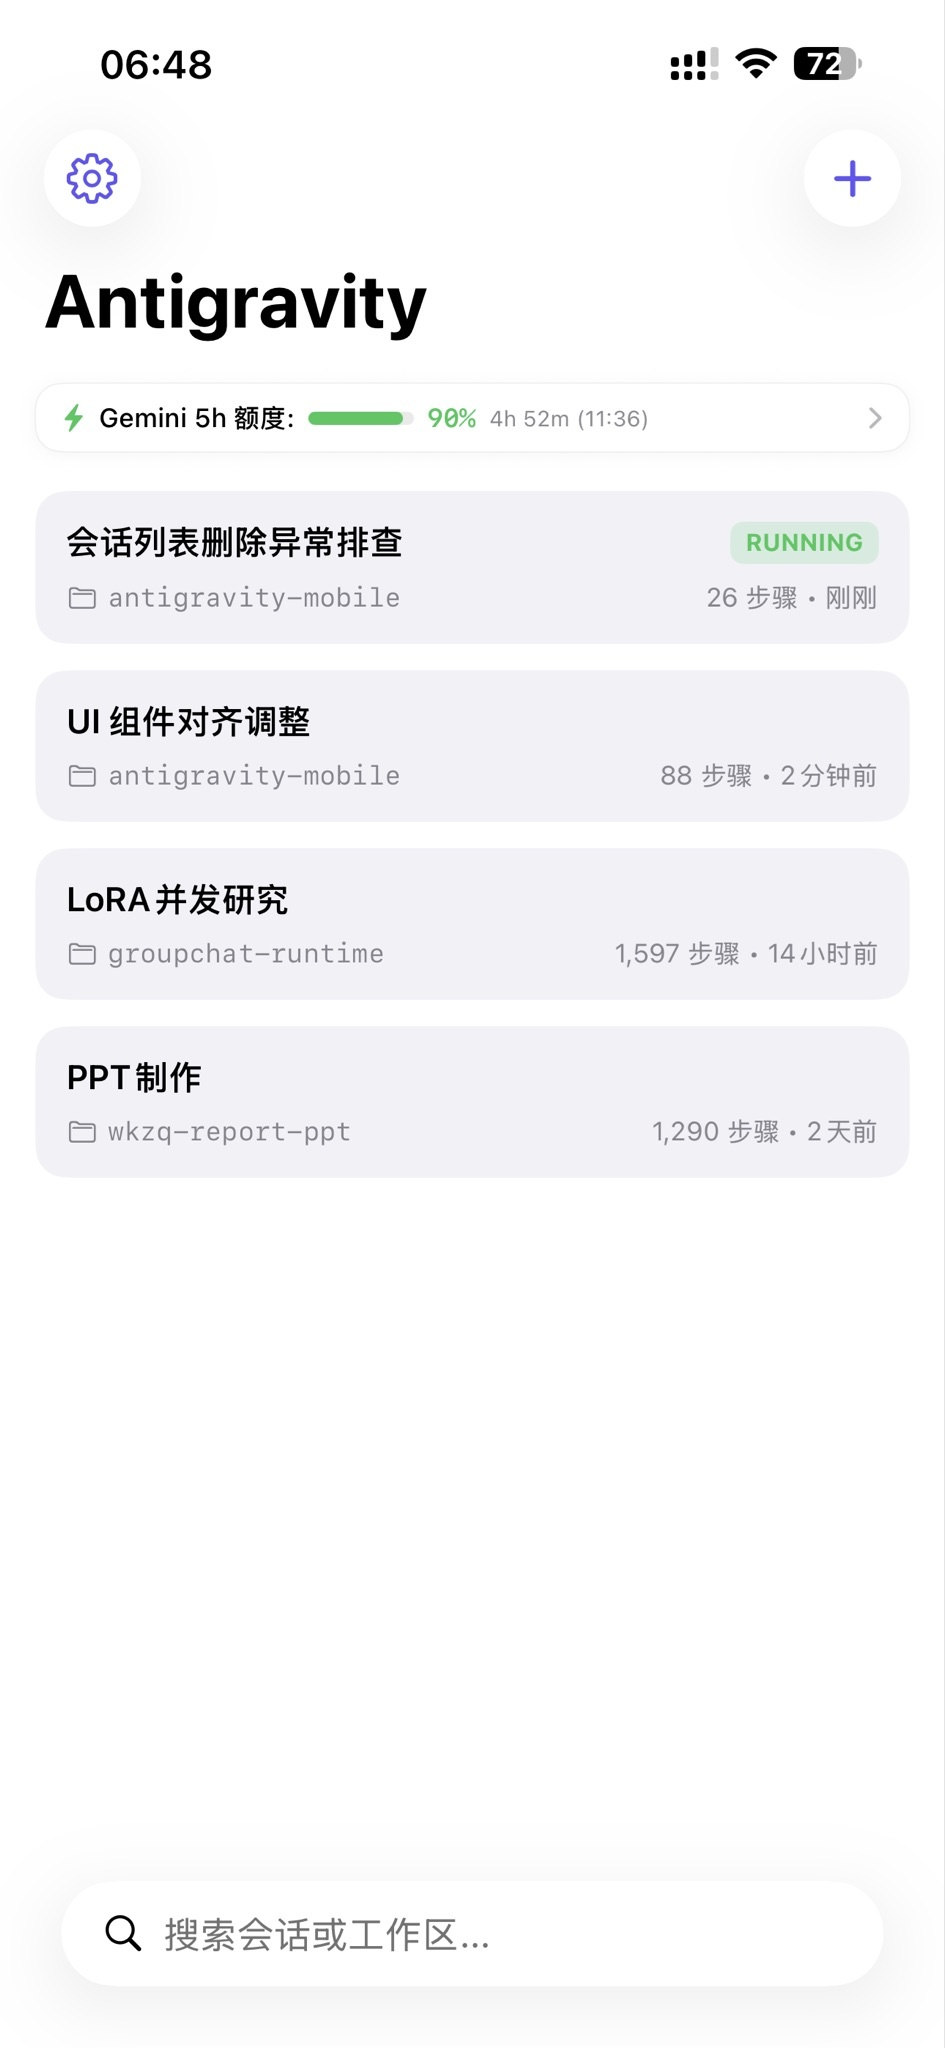
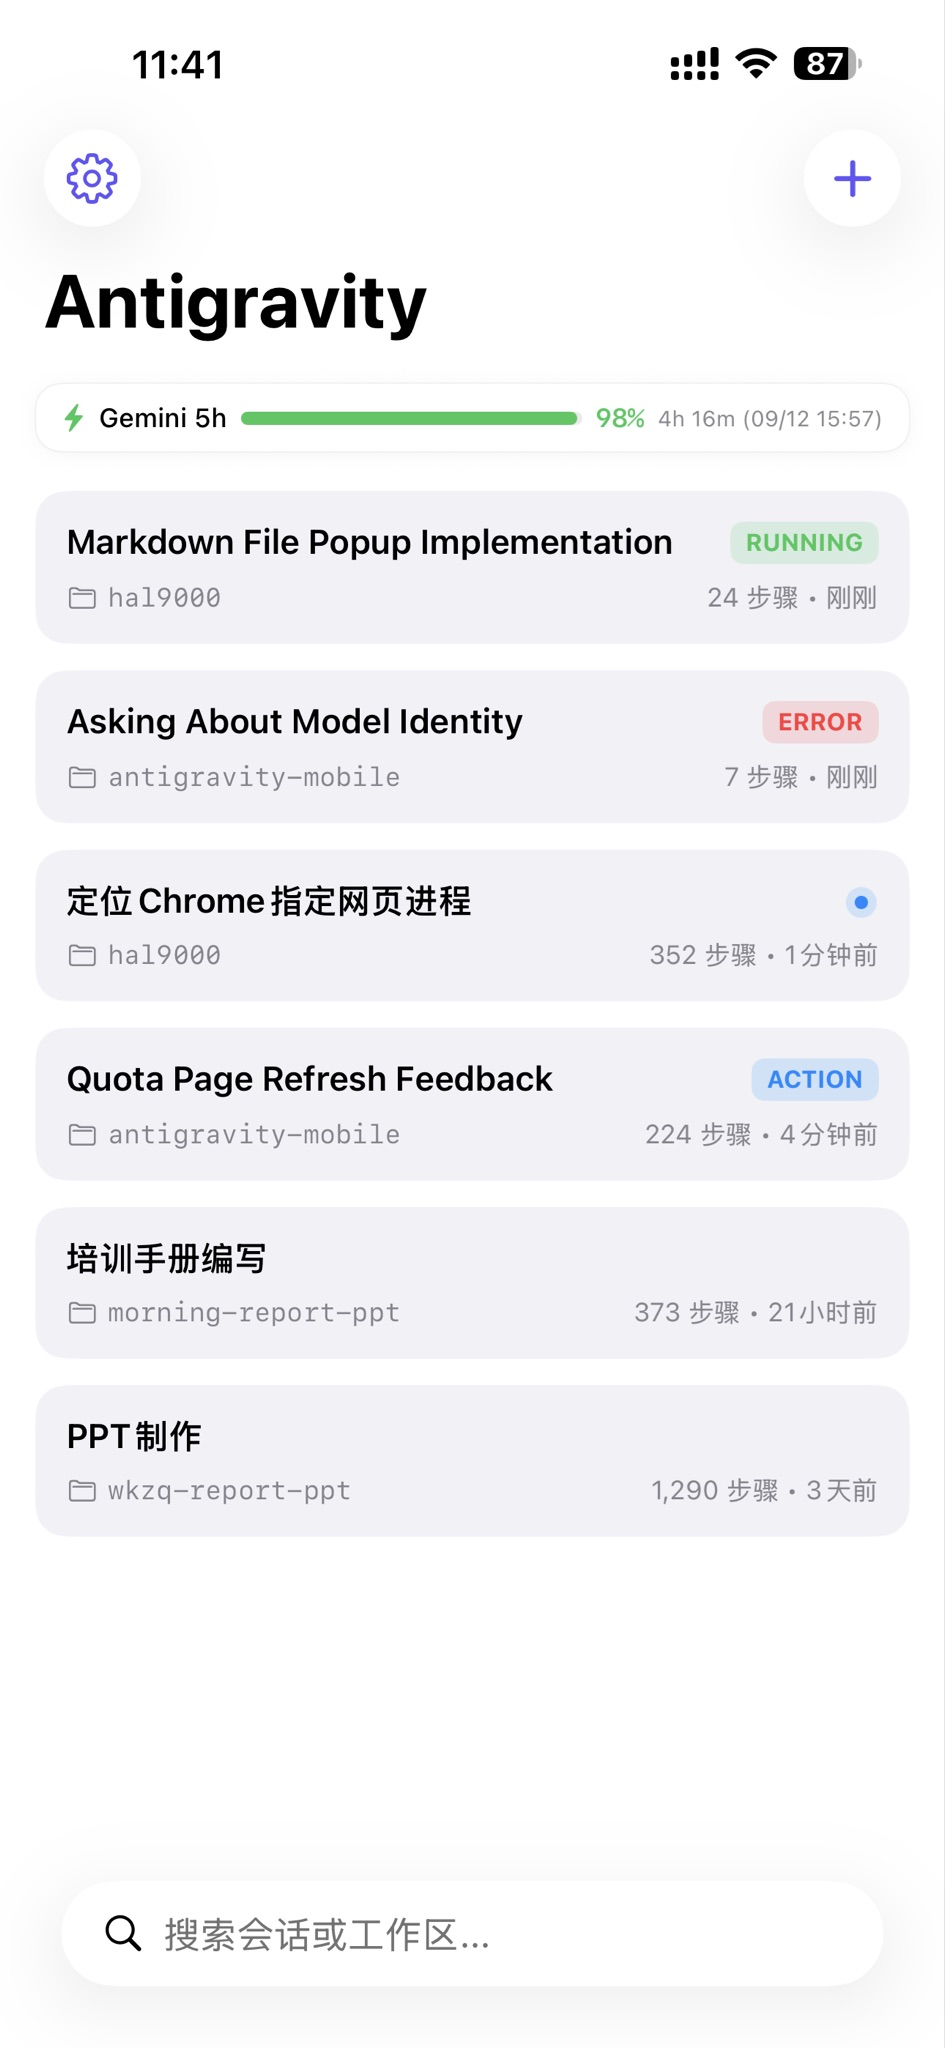
docs: update session list screenshot and document multi-state classification signals

diff --git a/README.md b/README.md
@@ -10,7 +10,7 @@
 [![License](https://img.shields.io/badge/License-MIT-green?style=flat-square)]()
 
 <p align="center">
-  <img src="images/session_list.jpg" alt="Antigravity Mobile 会话列表与配额面板" width="340" />
+  <img src="images/session_list.jpg" alt="Antigravity Mobile 会话列表与分类信号" width="340" />
   &nbsp;&nbsp;&nbsp;&nbsp;
   <img src="images/native_components.jpg" alt="Antigravity Mobile 原生交互组件与任务监控" width="340" />
 </p>
@@ -32,7 +32,7 @@
 
 | 层级 | 核心组件 | 关键职责与技术特性 |
 | :--- | :--- | :--- |
-| **📱 移动访问层** | **iOS 原生客户端** (SwiftUI 5) | Swift 6 严格并发、单趟 O(N) LaTeX 渲染、VS Code 文件图标、Gemini 3.8 / Claude 4.6 模型切换、多模态图片上传、排队消息、后台任务监控与终止、交互式审批/Proceed 卡片、左滑删除与长按重命名、未读小蓝点、灵动岛 (Live Activity) |
+| **📱 移动访问层** | **iOS 原生客户端** (SwiftUI 5) | Swift 6 严格并发、单趟 O(N) LaTeX 渲染、VS Code 文件图标、Gemini 3.8 / Claude 4.6 模型切换、多模态图片上传、排队消息、后台任务监控与终止、交互式审批/Proceed 卡片、全态分类信号 (RUNNING / ERROR / ACTION / 未读小蓝点)、左滑删除与长按重命名、灵动岛 (Live Activity) |
 | | **移动端 PWA / Web** (Vanilla JS) | 零构建打包、嵌入 Go 二进制 (`embed.FS`)、全面对齐 iOS 原生设计系统、自适应安全区与键盘防遮挡、排队消息与后台任务同步、添加到主屏幕 |
 | **⚡ 远程连接与鉴权层** | **IPv6 双栈直连 (Dual-Stack Direct)** | 网关默认监听 IPv4/IPv6 全网卡，公网 IPv6 / DDNS 直连免中继，极低延迟，客户端蜂窝网络 (Cellular) 智能优先路由 |
 | | **二维码扫码配对 (QR Pairing)** | 终端自动生成一次性 `agy://pair` 配对二维码，扫码秒级签发独占 Device Token，存入系统安全存储 (Keychain)，与 IP 完全解耦 |
@@ -50,8 +50,16 @@
 ### 1. 📱 iOS 原生客户端 (`ios/`)
 - **现代化架构**：基于 SwiftUI 5 与 **Swift 6 严格并发模式**（Strict Concurrency Checking）构建，线程安全、流畅无卡顿。
 - **Cockpit 额度监控与多账号看板**：
-  - **首页 5h 额度状态条**：实时直观显示当前活跃模型（Gemini）5 小时额度百分比、全宽动态进度条、剩余重置倒计时与具体时钟点（如 `⚡ Gemini 5h 90% 4h 52m (09/11 11:36)`）；
+  - **首页 5h 额度状态条**：实时直观显示当前活跃模型（Gemini）5 小时额度百分比、全宽动态进度条、剩余重置倒计时与具体时钟点（如 `⚡ Gemini 5h 98% 4h 16m (09/12 15:57)`）；
   - **Cockpit Tools 配额抽屉**：展开后一览 Claude / Gemini 5h 与每周四项额度指标；支持多账号一键热切换与即时生效校准；内置邮箱打码遮罩（Masking）保护隐私，支持 5 分钟后台自动静默刷新与手动即时刷新。
+- **智能会话状态与多维分类信号 (Multi-State Classification)**：
+  - **全态可视化徽标与状态分流**：
+    - `RUNNING`（绿色徽标）：Agent 正在高负荷思考、多步推理或并发调用工具链；
+    - `ERROR`（红色徽标）：会话执行异常或中断报错（如模型身份限制、命令异常），醒目警示以便第一时间定位排查；
+    - `ACTION`（蓝色徽标）：等待用户关键交互或决策（终端命令审批、敏感文件读写授权、澄清提问、以及实施方案 Proceed 推进）；
+    - `未读小蓝点`：双层同心圆呼吸微光小蓝点，即时提示有新完成但未阅的会话；
+  - **多维上下文元信息**：每个会话卡片清晰标注对应工作区目录（Workspace Folder）、累计步骤统计（如 `24 步骤`、`1,290 步骤`）以及自适应相对时间（`刚刚`、`1分钟前`、`21小时前`、`3天前`）；
+  - **即时模糊搜索**：底部常驻搜索框（“搜索会话或工作区...”），支持按会话标题或所属工作区秒级模糊过滤。
 - **双模型切换与多模态图片上传**：
   - **模型一键切换**：聊天输入栏内置 **Gemini 3.8** / **Claude 4.6** 模型快速切换胶囊，按需调用最适合的模型；
   - **多模态图片发送**：原生集成系统照片库与相机，一键上传报错截图、设计图纸或架构草图，客户端自适应轻量压缩，直接给 Agent 多模态视觉输入。
@@ -64,7 +72,6 @@
 - **交互式审批与方案推进卡片 (Action & Proceed Cards)**：
   - 原生交互式卡片渲染：终端命令执行审批、跨目录文件读写确认、Agent 澄清提问；
   - 实施方案（Implementation Plan）就绪时，高亮展示 **Proceed** 推进按钮，手机上一键确认继续；
-  - 会话列表精准标识 `RUNNING`（绿色运行中）与 `ACTION`（橙色待用户审批/推进）徽标，辅以未读小蓝点。
 - **会话管理细节优化**：
   - 原生 **左滑删除**：内嵌红色居中垃圾桶图标与防误触确认弹窗，消除列表跳动；
   - 原生 **长按一步重命名**：长按卡片即刻弹出重命名输入框；
@@ -95,7 +102,7 @@
 ### 3. 🌐 嵌入式 Mobile Web & PWA (`web/`)
 - **零构建（Zero-Build）**：极简现代原生 JavaScript + CSS，无需 Node.js 或前端打包工具链；
 - **自包含嵌入**：利用 Go `embed.FS` 编译进单个二进制，无散落文件依赖；
-- **全端对齐原生设计**：全面对齐 iOS 原生客户端视觉与交互风格，包含深色现代卡片、排队追问卡片、后台任务控制条与交互审批流；
+- **全端对齐原生设计**：全面对齐 iOS 原生客户端视觉与交互风格，包含多态分类信号徽标（`RUNNING` / `ERROR` / `ACTION` / 未读小蓝点）、深色现代卡片、排队追问卡片、后台任务控制条与交互审批流；
 - **PWA 沉浸体验**：完美支持 iOS Safari「添加到主屏幕」，全屏运行，自带独立启动图标、离线 Manifest 与 Service Worker 缓存支持；
 - **移动端键盘适配**：动态处理虚拟键盘弹出与收起高度，消除键盘收起黑边与页面跳动，安全区完全适配。
 
@@ -123,7 +130,7 @@ antigravity-mobile/
 ├── README.md                   # 全栈开源项目文档
 ├── env.example                 # 环境配置模板 (Bark 推送、端口等)
 ├── images/                     # 项目文档截图与预览图
-│   ├── session_list.jpg        # 移动端主界面与配额监控预览图
+│   ├── session_list.jpg        # 移动端主界面与多维分类信号/配额监控预览图
 │   └── native_components.jpg   # 原生交互组件与后台任务监控预览图
 ├── go.mod / go.sum             # Go 依赖描述 (Go 1.22+)
 ├── .github/workflows/ci.yml    # CI/CD 自动化工作流
